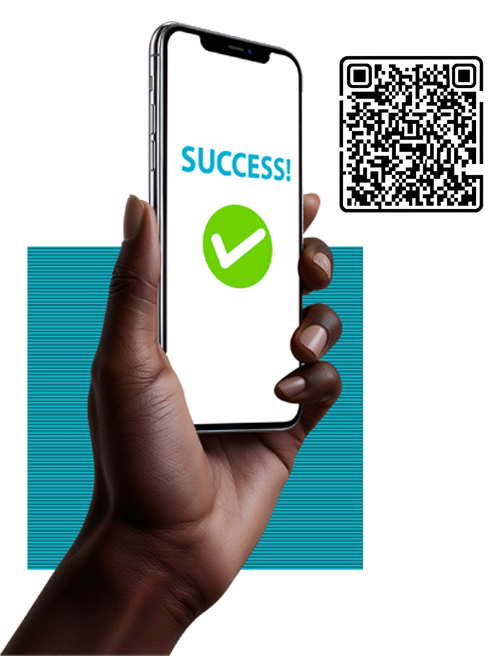
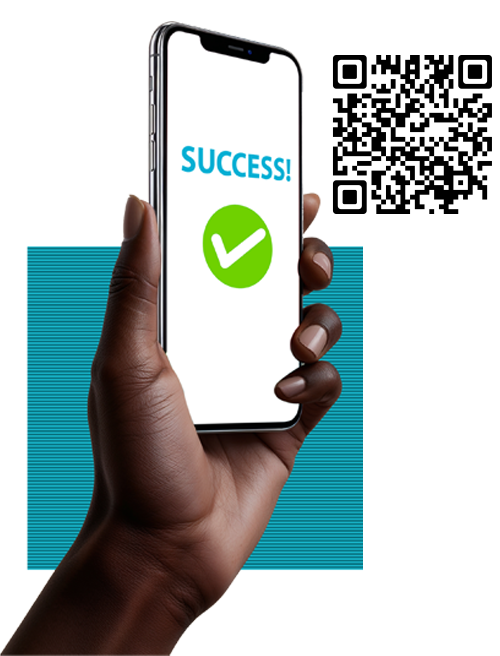
updated QR codes

Changed region(s): [[0.66, 0.061, 0.99, 0.3354]]

diff --git a/src/components/AboutView.vue b/src/components/AboutView.vue
@@ -219,16 +219,18 @@ export default {
                     </Accordion>
                 </div>
                 <!-- <agent-signup /> -->
-                <div class="flex w-full max-md:flex-col-reverse items-center">
-                    <div class="flex flex-col gap-2 w-max items-center">
-                        <p class="text-lg max-md:text-2xl font-bold">Become an Xpenspay Agent Today</p>
-                        <RouterLink to="/registration" class="w-3/5 bg-black text-white p-2 rounded hover:outline-none">
-                            Register Here
-                        </RouterLink>
-                    </div>
-                    <div class="w-1/5 h-full bg-cover bg-center rounded-2xl max-md:w-full">
-                        <img loading="lazy" src="../assets/img/userMale.png" alt="Mobile app referral rewards screen"
-                            class="object-contain grow w-full aspect-[1] max-md:w-full" />
+                <div class="flex w-full max-md:flex-col-reverse items-center justify-center">
+                    <div class="flex w-min justify-center items-center">
+                        <div class="flex flex-col gap-2 w-max items-center">
+                            <p class="text-lg max-md:text-2xl font-bold">Become an Xpenspay Agent Today</p>
+                            <RouterLink to="/registration" class="w-3/5 bg-black text-white p-2 rounded hover:outline-none">
+                                Register Here
+                            </RouterLink>
+                        </div>
+                        <div class="w-1/5 h-full bg-cover bg-center rounded-2xl max-md:w-full">
+                            <img loading="lazy" src="../assets/img/userMale.png" alt="Mobile app referral rewards screen"
+                                class="object-contain grow w-full aspect-[1] max-md:w-full min-w-[200px]" />
+                        </div>
                     </div>
                 </div>
                 <div class="hidden">

diff --git a/src/components/FeaturesSection.vue b/src/components/FeaturesSection.vue
@@ -17,7 +17,7 @@
     <div class="flex gap-3 max-md:flex-col-reverse max-md:justify-center justify-between items-center max-w-full w-[1392px]">
       <div class="flex overflow-hidden flex-col items-center self-stretch px-1 my-auto max-md:w-full min-w-[240px] w-min">
         <img loading="lazy"
-          src="https://cdn.builder.io/api/v1/image/assets/c49e2462ddbf40d0944f306255d5e3e6/3f72bf75f1f0f595e9da14548433a201679957db42753b1d7732372051008c75?apiKey=c49e2462ddbf40d0944f306255d5e3e6&"
+          src="../assets/img/phoneQR.png"
           alt="Quick payment feature illustration" class="object-contain max-md:w-3/5 aspect-[0.66]" />
       </div>
       <div class="flex flex-col self-stretch my-auto text-black min-w-[240px] max-md:max-w-full">
